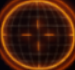
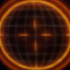
progress to finding deviation

diff --git a/first_test.py b/first_test.py
@@ -11,6 +11,7 @@ import os
 import pytesseract
 from PIL import Image
 from PIL import ImageDraw
+from PIL import ImageChops
 
 
 #takes a screenshot and saves it to elite_dangerous_bot
@@ -41,17 +42,39 @@ def find_compass():
     if compass_location != None:
         print(compass_location)
         #draws a box around the found compass
-        bounds = 45
+        bounds = 35
         box = (compass_location[0]-bounds, compass_location[1]-bounds, compass_location[0]+bounds, compass_location[1]+bounds)
         #saves the screenshot
         screen_shot().crop(box).save(r'pictures/found_compass.png')
-
-
     else:
         print('compass not found')
+
+#finds the target on the compass, and returns the deviation from center
+def target_deviation():
+    #loads the found compass image
+    found_compass = Image.open('pictures/found_compass.png')
+    compass_sample = Image.open('pictures/compass_sample.png')
+    #converts images to same type
+    found_compass = found_compass.convert('RGB')
+    compass_sample = compass_sample.convert('RGB')
+    #finds the difference between the two images
+    solid_difference = ImageChops.difference(found_compass, compass_sample)
+    #saves the difference
+    solid_difference.save(r'pictures/solid_difference.png')
+    
+    #finds coordinates of the brightest pixel
+    
+
+
+
+
+
+
+
 
 while True:
     time.sleep(1)
     #screen_shot()
     #mono_color()
     find_compass()
+    target_deviation()
